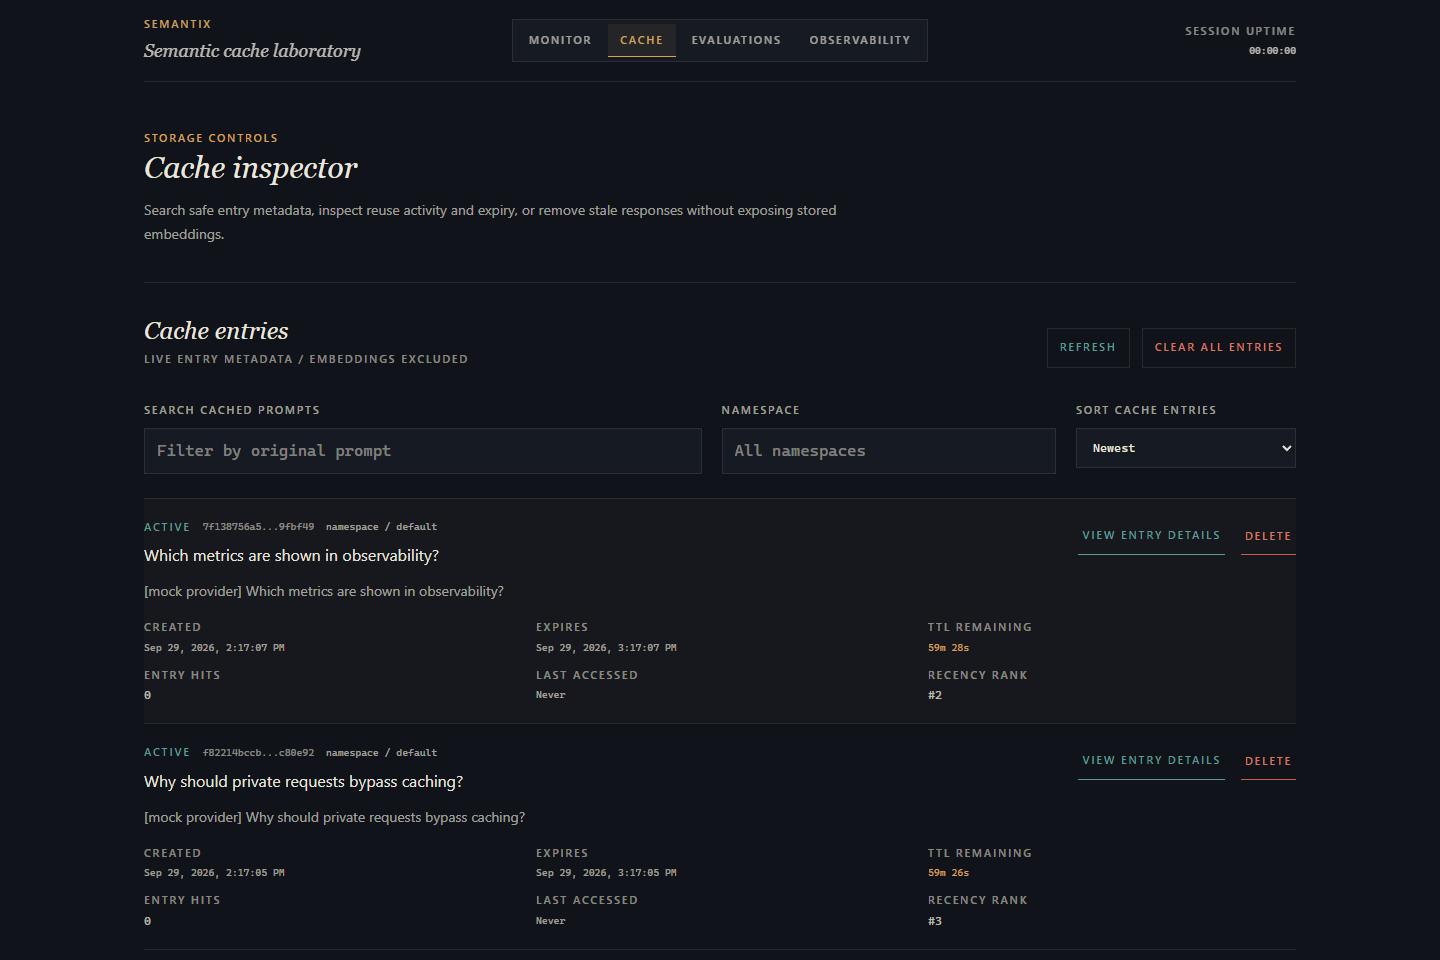
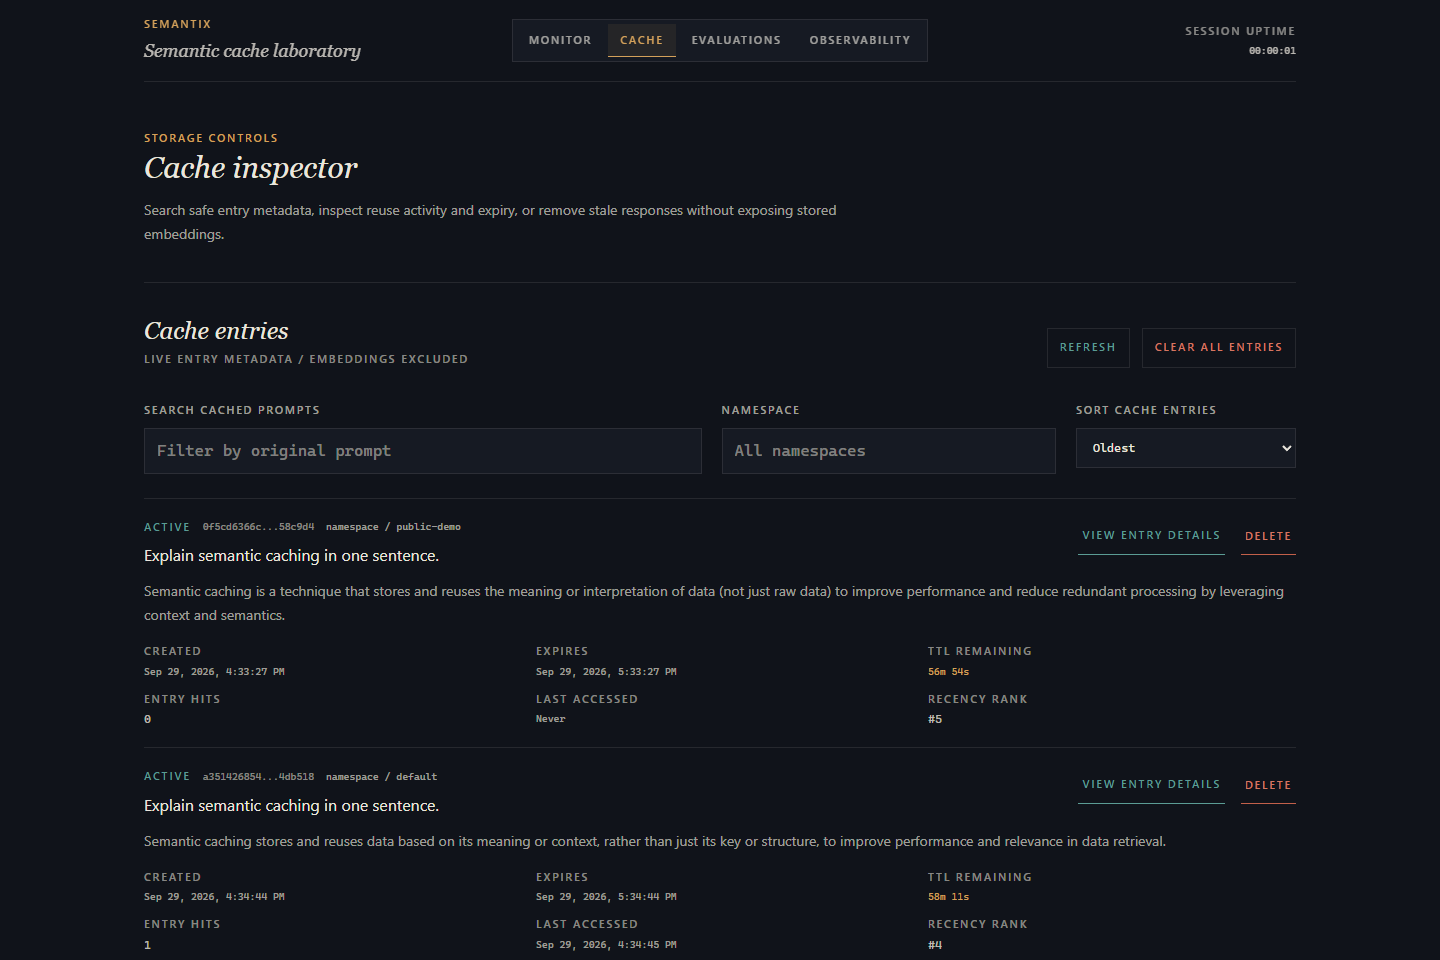
docs: show Hugging Face provider captures in product tour

diff --git a/docs/translation/id/README.ID.md b/docs/translation/id/README.ID.md
@@ -18,7 +18,7 @@ Semantix dapat di-host sendiri untuk beberapa aplikasi dan pengguna. Akses berba
 
 ![Monitor Semantix menampilkan cache hit, bukti similarity, dan panggilan provider yang dilewati](../../assets/screenshots/monitor-decision.png)
 
-*Tampilan Semantix asli dengan provider mock deterministik dan contoh prompt.*
+*Tampilan Semantix asli dengan provider Hugging Face dan contoh prompt.*
 
 ---
 
@@ -33,13 +33,13 @@ Semantix dapat di-host sendiri untuk beberapa aplikasi dan pengguna. Akses berba
 
 ## Tur produk
 
-Demo lokal dengan provider mock juga menampilkan workspace lainnya. Pilih pratinjau untuk melihat tangkapan layar berukuran penuh.
+Demo lokal dengan provider Hugging Face juga menampilkan workspace lainnya. Pilih pratinjau untuk melihat tangkapan layar berukuran penuh.
 
 | Workspace | Tampilan saat ini |
 |---|---|
 | **Cache Inspector** — Cari prompt tersimpan dan periksa usia, jumlah hit, serta masa berlaku entri tanpa menampilkan embedding. | <a href="../../assets/screenshots/cache-inspector.png"><img src="../../assets/screenshots/cache-inspector.png" alt="Cache Inspector menampilkan entri contoh dengan jumlah hit dan TTL" width="320"></a> |
 | **Evaluations** — Jalankan dataset terisolasi dan tinjau hit rate, panggilan provider, serta klasifikasi yang terukur. | <a href="../../assets/screenshots/evaluations-results.png"><img src="../../assets/screenshots/evaluations-results.png" alt="Evaluations menampilkan hasil quick semantic safety set bawaan" width="320"></a> |
-| **Observability** — Lihat metrik request, cache, provider, dan latensi pada proses backend ini. | <a href="../../assets/screenshots/observability-metrics.png"><img src="../../assets/screenshots/observability-metrics.png" alt="Observability menampilkan metrik traffic, cache, dan latensi provider mock" width="320"></a> |
+| **Observability** — Periksa diagnostik runtime yang aman, kategori provider, fingerprint pencocokan, dan kesiapan layanan. | <a href="../../assets/screenshots/observability-diagnostics.png"><img src="../../assets/screenshots/observability-diagnostics.png" alt="Diagnostik runtime Observability menampilkan provider Hugging Face dan kesiapan layanan" width="320"></a> |
 
 Kapabilitas inti:
 

diff --git a/README.md b/README.md
@@ -22,7 +22,7 @@ restarts. The hardened deployment routes traffic across two backend replicas.
 
 ![Semantix Monitor showing a cache hit, similarity evidence, and the skipped provider call](docs/assets/screenshots/monitor-decision.png)
 
-*Actual Semantix UI with deterministic mock providers and example prompts.*
+*Actual Semantix UI with Hugging Face providers and example prompts.*
 
 ---
 
@@ -37,13 +37,13 @@ restarts. The hardened deployment routes traffic across two backend replicas.
 
 ## Product tour
 
-The local mock-provider demo also shows the other workspaces. Select a preview to see the full-size screenshot.
+The local Hugging Face demo also shows the other workspaces. Select a preview to see the full-size screenshot.
 
 | Workspace | Current UI |
 |---|---|
 | **Cache Inspector** — Search stored prompts and inspect entry age, hits, and expiry without showing embeddings. | <a href="docs/assets/screenshots/cache-inspector.png"><img src="docs/assets/screenshots/cache-inspector.png" alt="Cache Inspector listing safe example entries with hit counts and TTL" width="320"></a> |
 | **Evaluations** — Run an isolated dataset and review measured hit rate, provider calls, and classification outcomes. | <a href="docs/assets/screenshots/evaluations-results.png"><img src="docs/assets/screenshots/evaluations-results.png" alt="Evaluations showing results for the built-in quick semantic safety set" width="320"></a> |
-| **Observability** — Read process-local request, cache, provider, and latency metrics. | <a href="docs/assets/screenshots/observability-metrics.png"><img src="docs/assets/screenshots/observability-metrics.png" alt="Observability showing mock-provider traffic, cache, and latency metrics" width="320"></a> |
+| **Observability** — Inspect safe runtime diagnostics, provider categories, matching fingerprints, and readiness. | <a href="docs/assets/screenshots/observability-diagnostics.png"><img src="docs/assets/screenshots/observability-diagnostics.png" alt="Observability runtime diagnostics showing Hugging Face providers and readiness" width="320"></a> |
 
 Core capabilities:
 
